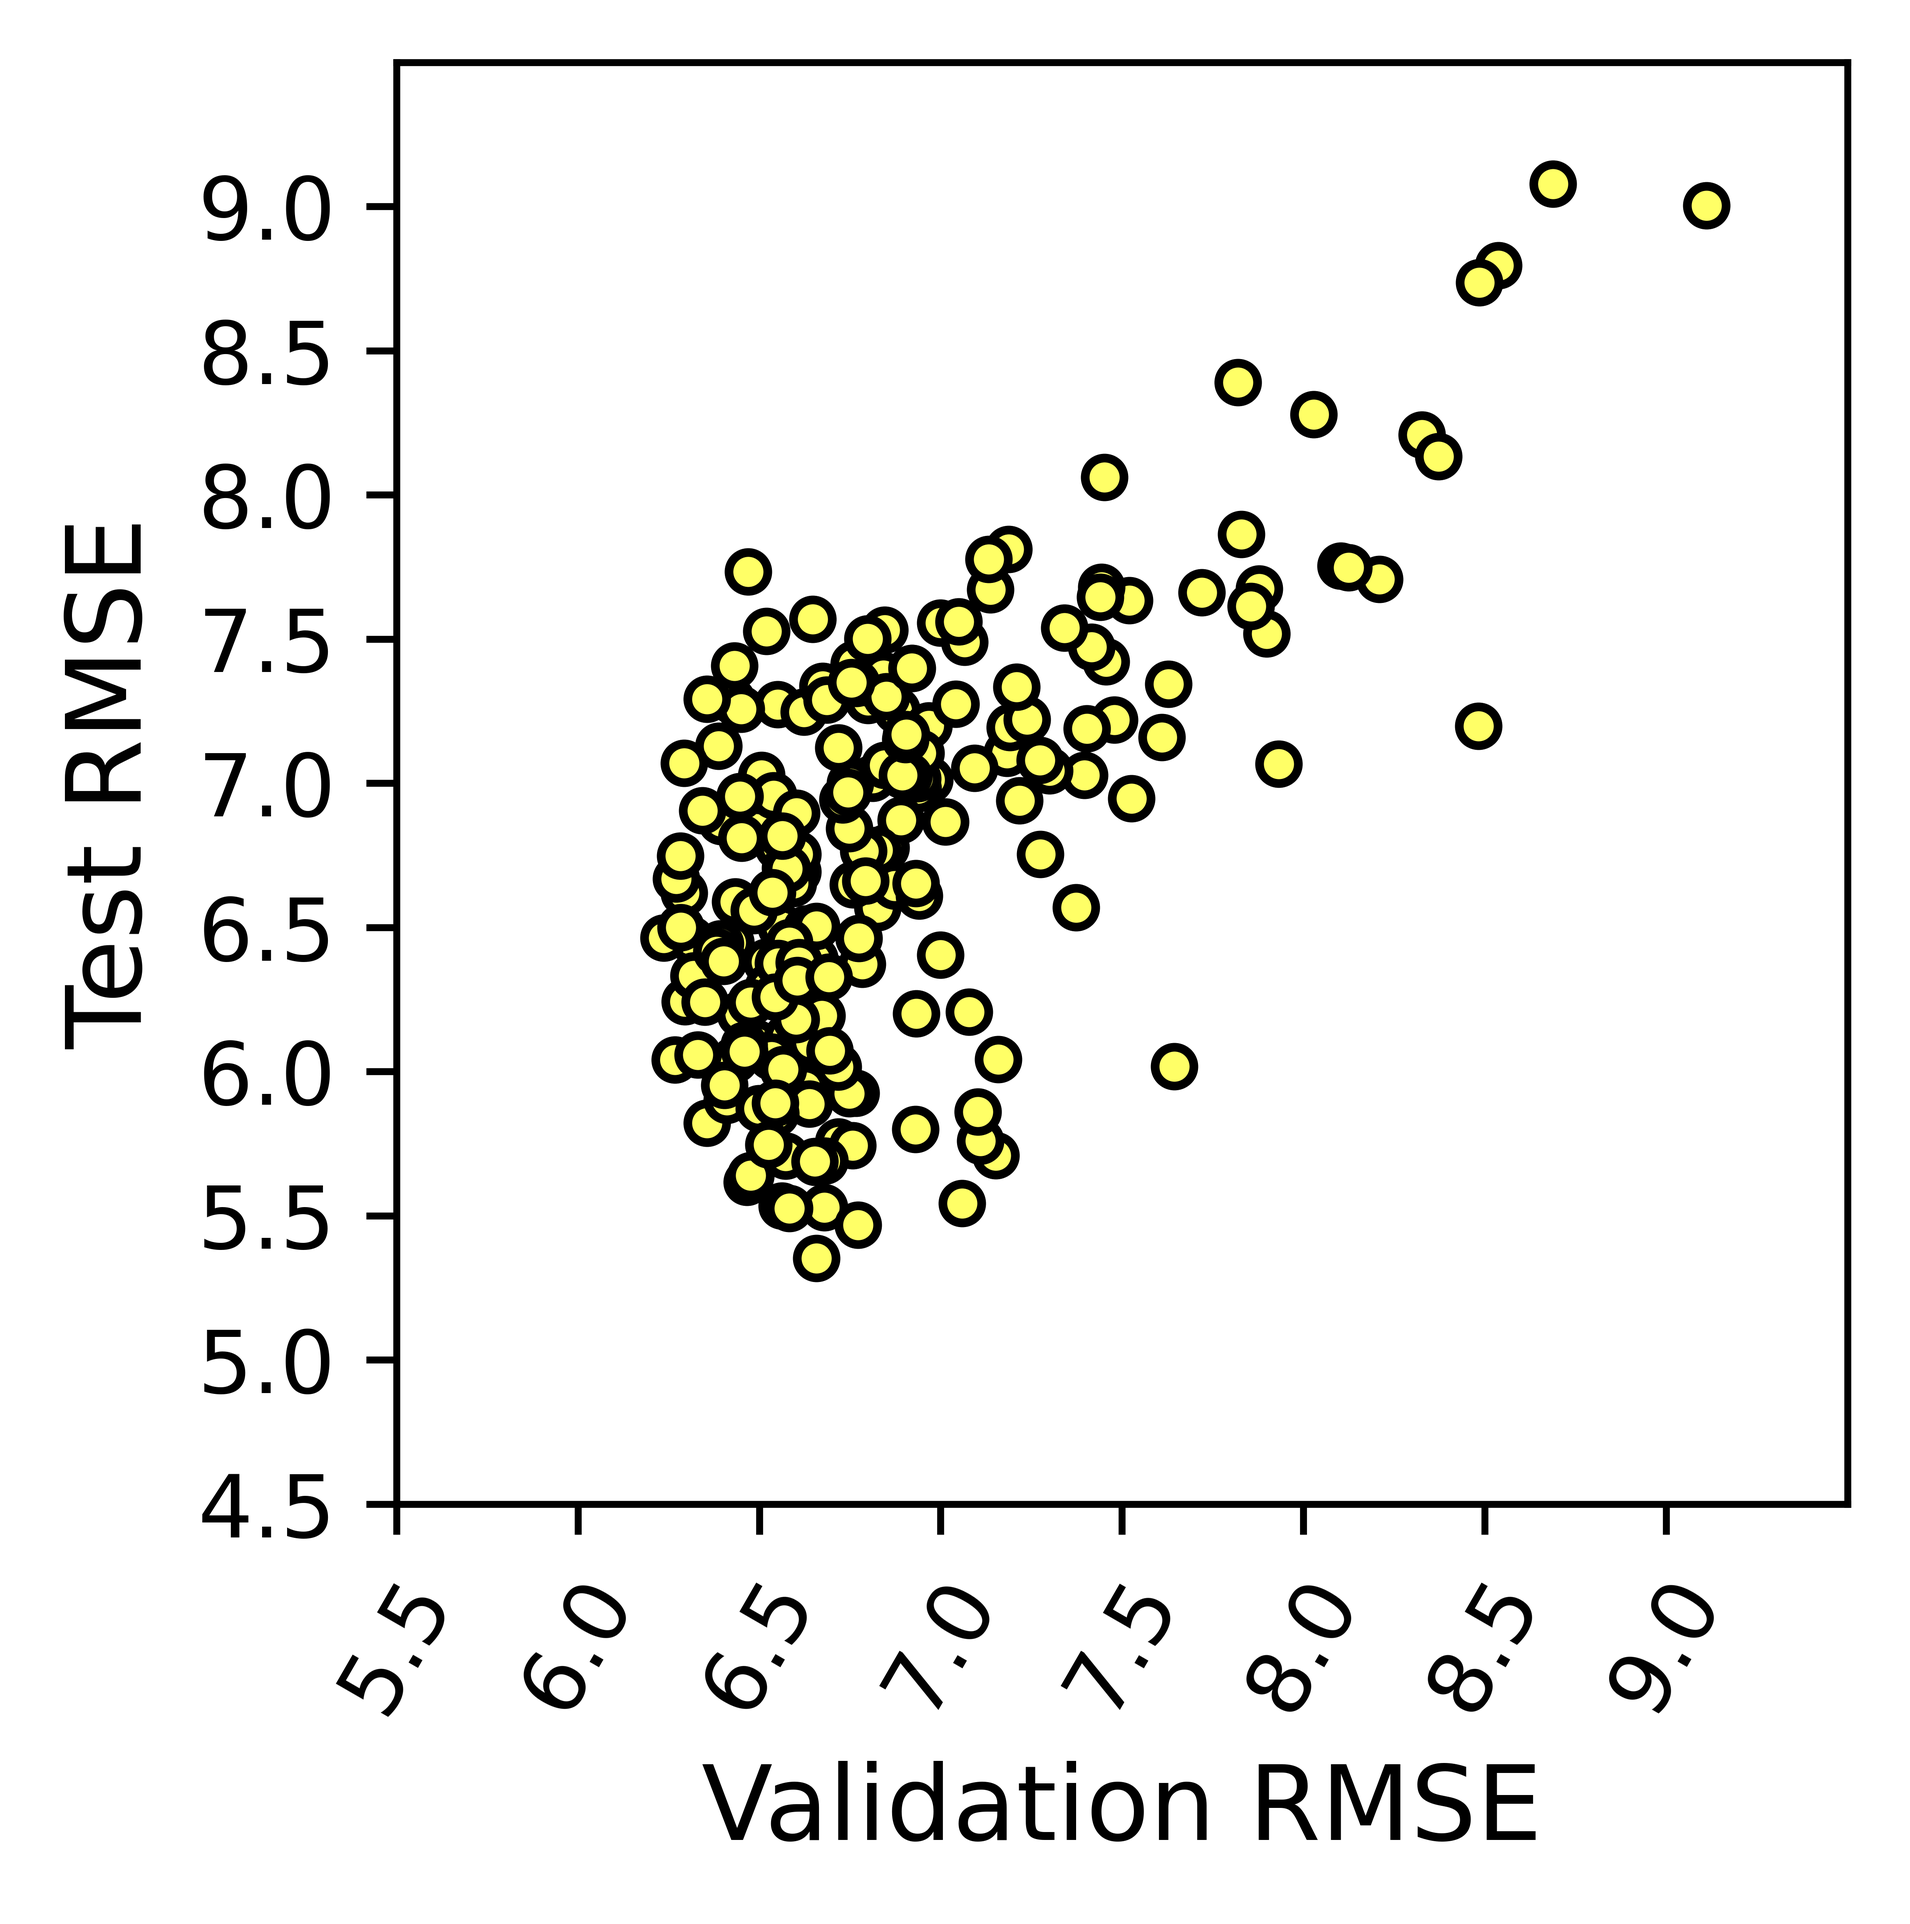
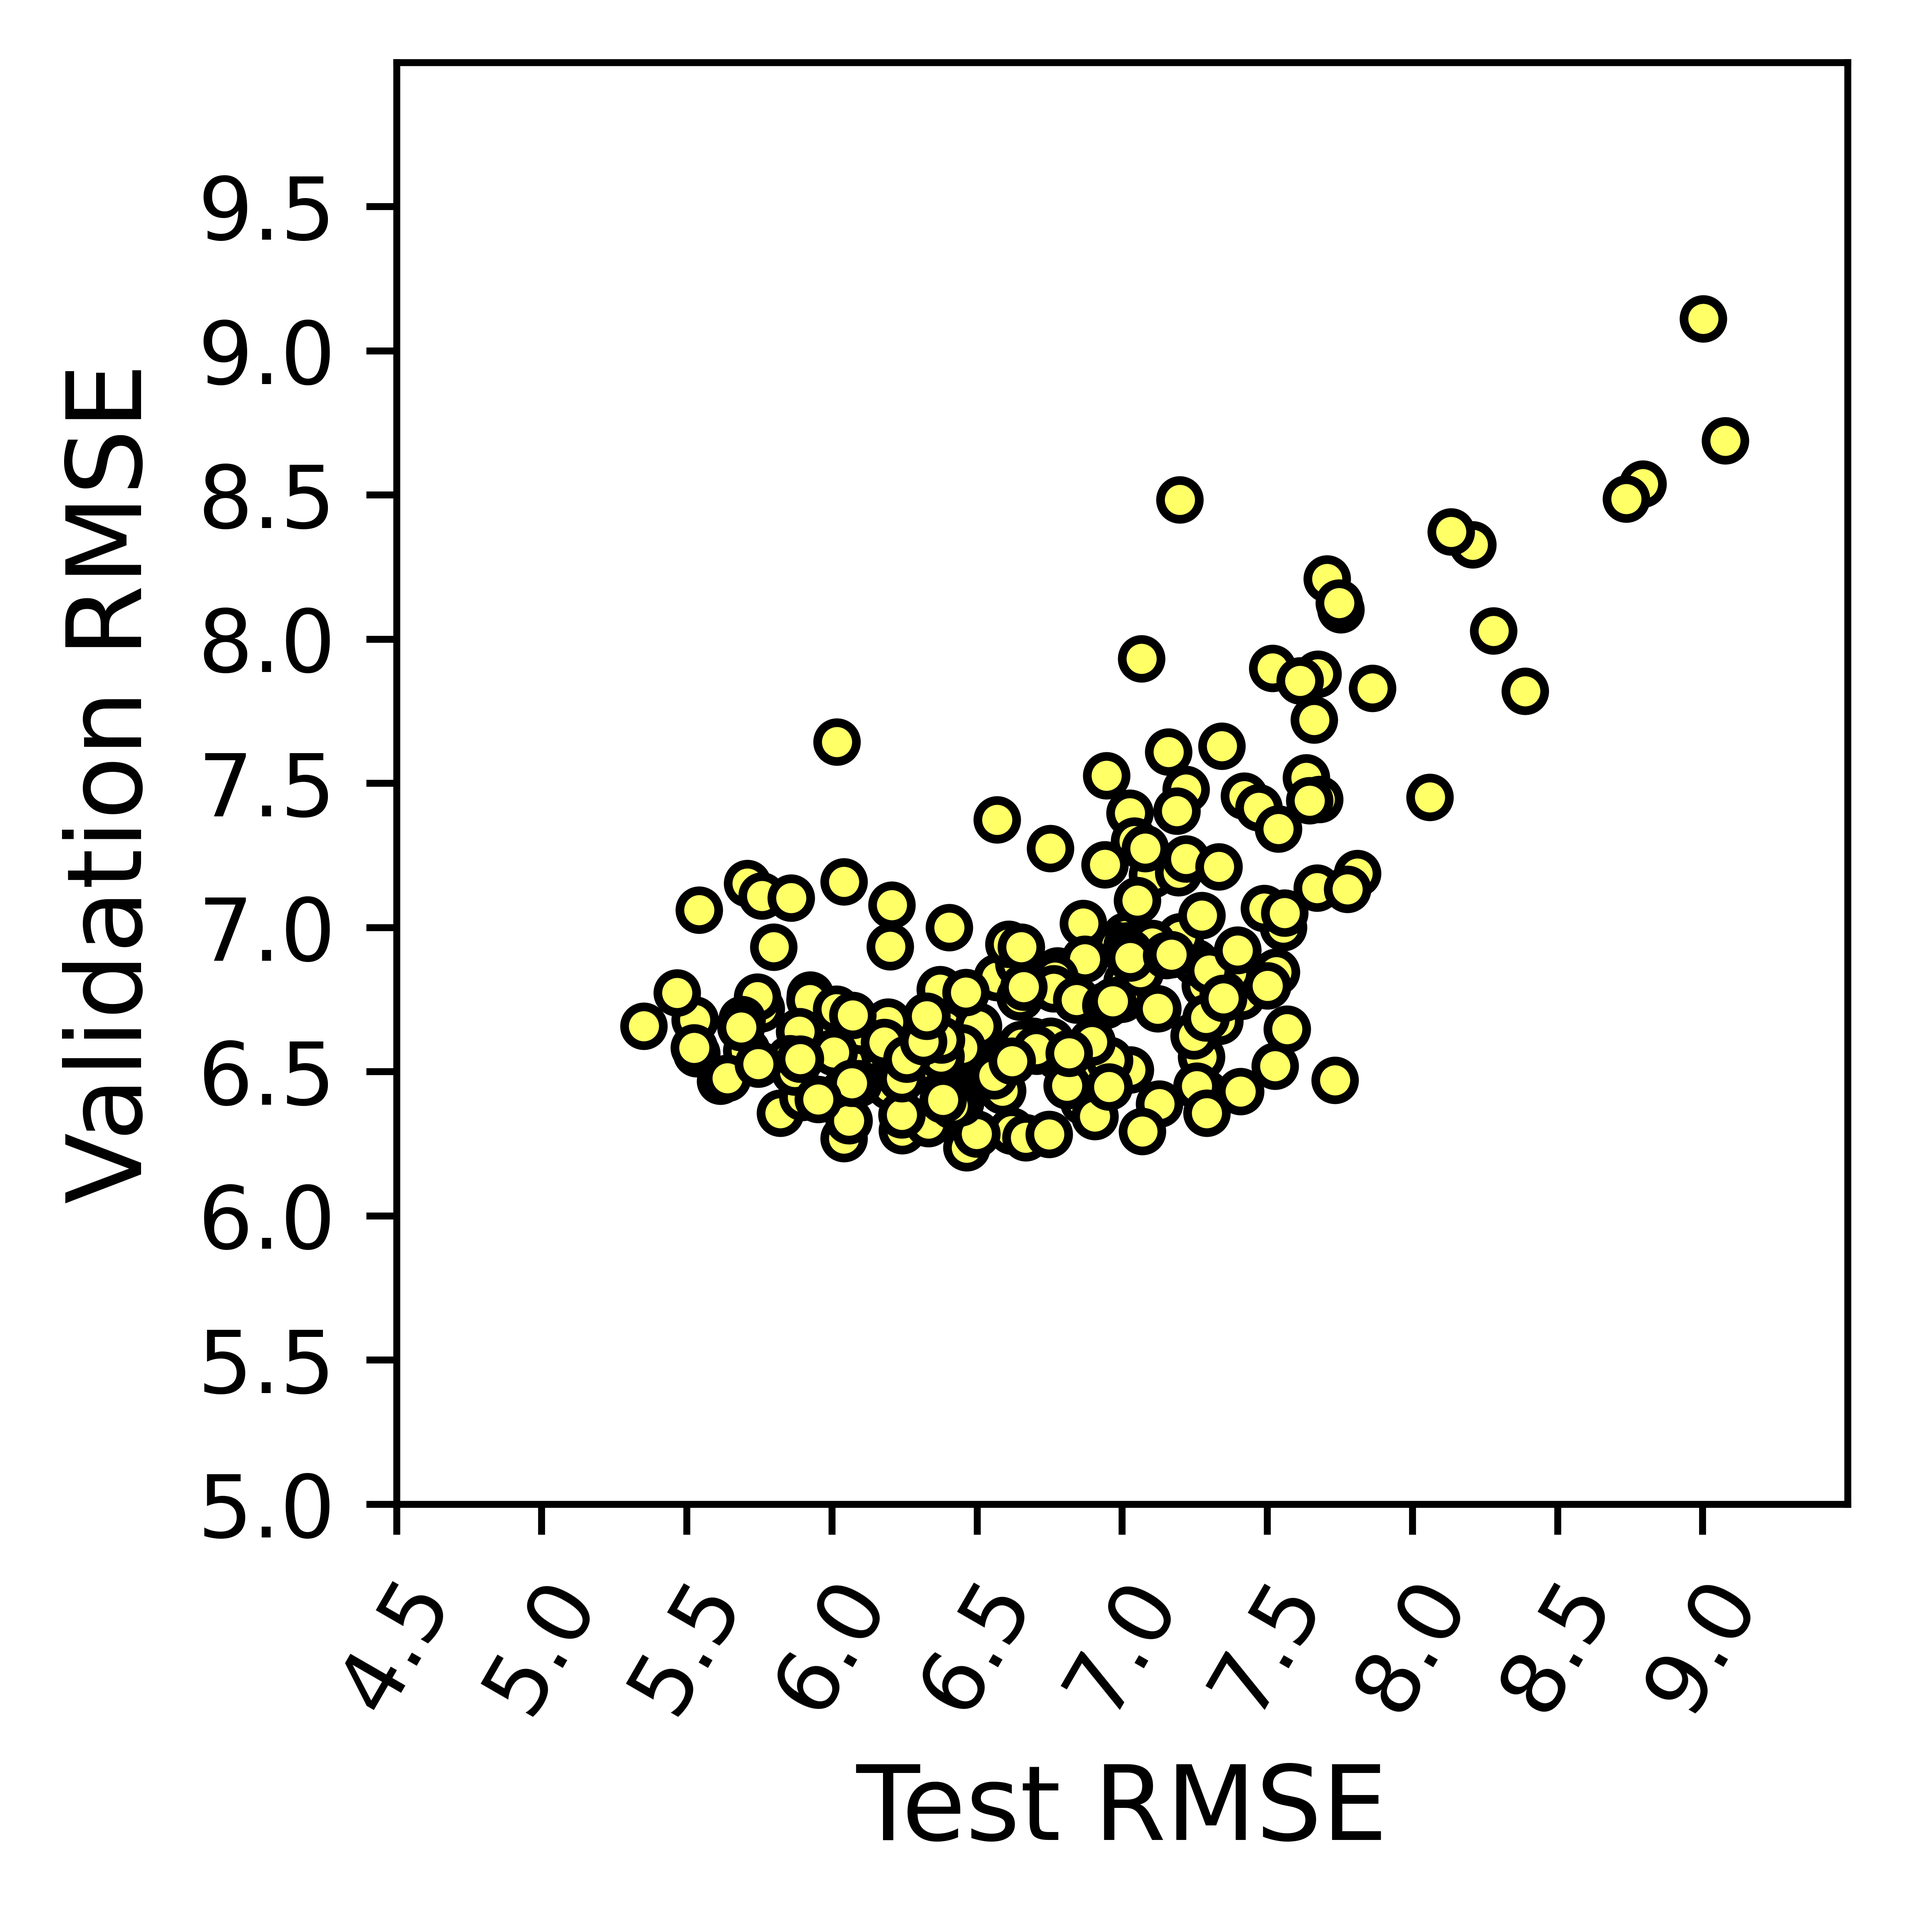
verbose

diff --git a/utils/cnn_network.py b/utils/cnn_network.py
@@ -80,6 +80,10 @@ def get_flops(model):
 #     else:
 #         return lr
 
+def rmse(y_true, y_pred):
+    """Metrics for evaluation"""
+    return backend.sqrt(backend.mean(backend.square(y_pred - y_true), axis=-1))
+
 initializer = GlorotNormal(seed=0)
 # initializer = GlorotUniform(seed=0)
 
@@ -127,14 +131,15 @@ class network_fit(object):
         '''
         print("Initializing network...")
         start_itr = time.time()
+        keras_rmse = tf.keras.metrics.RootMeanSquaredError()
 
         amsgrad = optimizers.Adam(learning_rate=lr, beta_1=0.9, beta_2=0.999, epsilon=1e-07, amsgrad=True, name='Adam')
         rmsop = optimizers.RMSprop(learning_rate=lr, rho=0.9, momentum=0.0, epsilon=1e-07, centered=False,
                                    name='RMSprop')
 
-        model.compile(loss='mean_squared_error', optimizer=amsgrad, metrics='mae')
+        model.compile(loss='mean_squared_error', optimizer=amsgrad, metrics=['mae', rmse, keras_rmse ])
         history = model.fit(train_sample_array, train_label_array, epochs=self.epoch, batch_size=self.batch,
-                            validation_data=(val_sample_array, val_label_array), verbose=0,
+                            validation_data=(val_sample_array, val_label_array), verbose=2,
                             callbacks=[EarlyStopping(monitor='val_loss', min_delta=0, patience=self.patience, verbose=0,
                                                                mode='min'),
                                        ModelCheckpoint(self.model_path, monitor='val_loss',

diff --git a/plot_val_test_score.py b/plot_val_test_score.py
@@ -362,13 +362,14 @@ def main():
     ax = fig.add_subplot(1, 1, 1)
     # Draw scatter plot
 
-    x_min = int(min(mute_log_df['fitness_1'])) - 0.5
-    x_max = int(max(mute_log_df['fitness_1'])) + 0.5
+    x_min = int(min(mute_log_df['test_rmse'])) - 0.5
+    x_max = int(max(mute_log_df['test_rmse'])) + 0.5
     x_sp = 0.25
 
-    y_min = int(min(test_log_df['test_rmse'])) - 0.5
-    y_max = int(max(test_log_df['test_rmse'])) + 0.5
+    y_max =int(max(mute_log_df['fitness_1'])) + 1
+    y_min =int(min(mute_log_df['fitness_1'])) - 1
     y_sp = 0.25
+
 
 
     # y_sp = 100
@@ -378,7 +379,7 @@ def main():
     # ax.scatter(mute_log_df['fitness_1'], mute_log_df['test_rmse'], facecolor=(1.0, 1.0, 0.4), edgecolors=(0.0, 0.0, 0.0), zorder=1,
     #            c=cmap(0), s=20 )
 
-    ax.scatter(mute_log_df['fitness_1'], test_log_df['test_rmse'], facecolor=(1.0, 1.0, 0.4),
+    ax.scatter(mute_log_df['test_rmse'], mute_log_df['fitness_1'], facecolor=(1.0, 1.0, 0.4),
                edgecolors=(0.0, 0.0, 0.0), zorder=1, s=20 )
 
 
@@ -388,8 +389,8 @@ def main():
     ax.set_xlim(x_min, x_max)
     ax.set_ylim(y_min, y_max)
     # ax.set_title("Solutions and pareto front", fontsize=15)
-    ax.set_xlabel('Validation RMSE', fontsize=12)
-    ax.set_ylabel('Test RMSE', fontsize=12)
+    ax.set_xlabel('Test RMSE', fontsize=12)
+    ax.set_ylabel('Validation RMSE', fontsize=12)
     # ax.legend(fontsize=9)
 
     # Save figure
